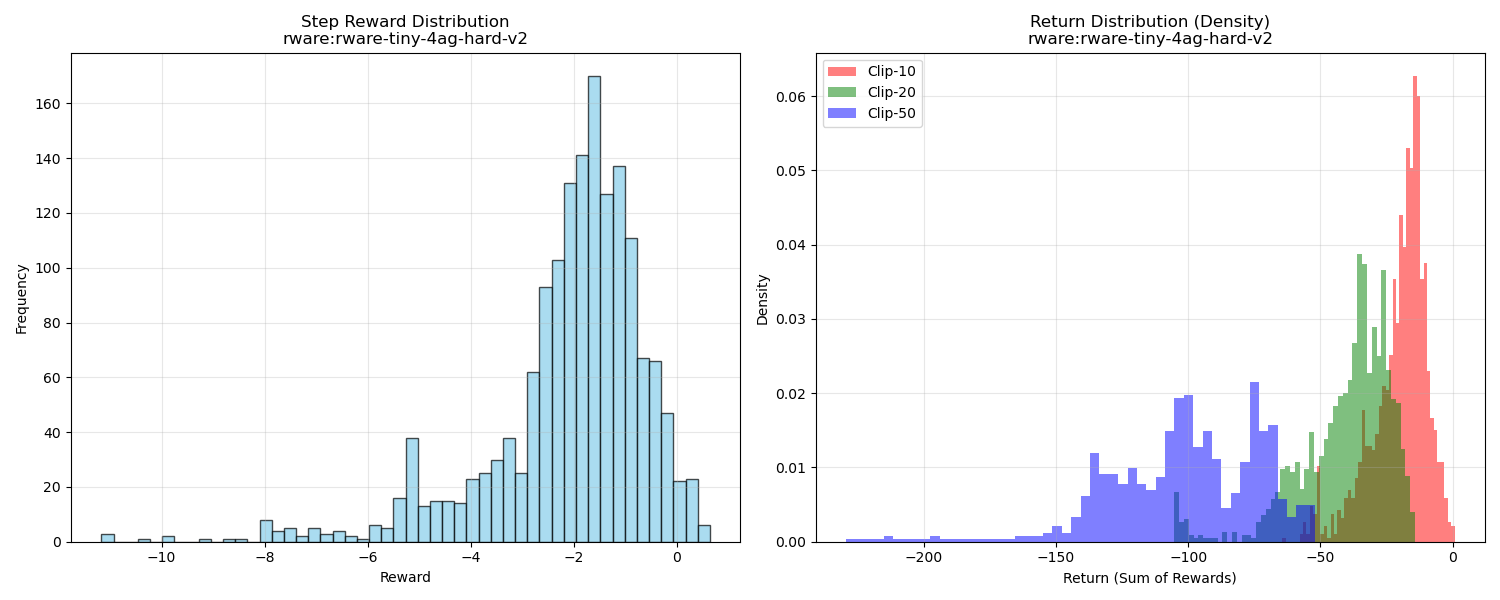
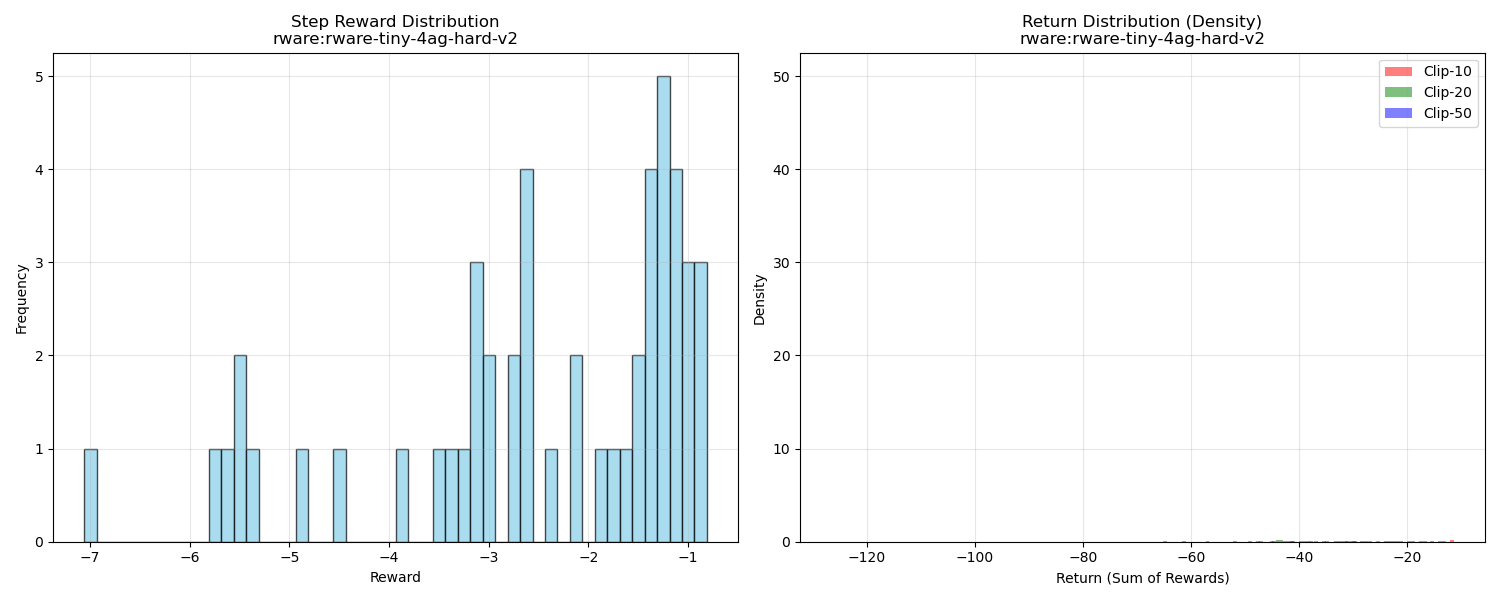
analyze folders of rewards

diff --git a/analyze_rewards.py b/analyze_rewards.py
@@ -337,7 +337,8 @@ def process_config(config_name, shards, args):
     fig, axes = plt.subplots(1, 2, figsize=(15, 6))
 
     # Plot 1: Step Rewards
-    axes[0].hist(flat_rewards, bins=50, color="skyblue", edgecolor="black", alpha=0.7)
+    flat_totals = [r["total"] for r in flat_rewards]
+    axes[0].hist(flat_totals, bins=50, color="skyblue", edgecolor="black", alpha=0.7)
     axes[0].set_title(f"Step Reward Distribution\n{config_name}")
     axes[0].set_xlabel("Reward")
     axes[0].set_ylabel("Frequency")
@@ -374,7 +375,14 @@ def main():
     parser = argparse.ArgumentParser(description="Analyze rewards in VLCM data")
     parser.add_argument(
         "input_path",
-        help="Path to a folder (raw trajectory) or directory containing tar shards",
+        nargs="?",
+        help="Path to a folder (raw trajectory) or directory containing tar shards. Defaults to 'data_scratch'.",
+    )
+    parser.add_argument(
+        "--data_dir",
+        type=str,
+        default=None,
+        help="Explicitly set the data directory (overrides input_path positionally)",
     )
     parser.add_argument(
         "--clip_lens",
@@ -389,14 +397,34 @@ def main():
 
     args = parser.parse_args()
 
-    input_path = Path(args.input_path)
+    # Determine base input path
+    raw_input = args.data_dir if args.data_dir else args.input_path
+    if not raw_input:
+        raw_input = "data_scratch"
+
+    input_path = Path(raw_input)
+
+    # Search for data_scratch if input_path doesn't exist locally
+    if not input_path.exists():
+        potential_paths = [
+            Path("data_scratch"),
+            Path("../VLCM_Data_Collection/RWARE/data_scratch"),
+            Path("VLCM_Data_Collection/RWARE/data_scratch"),
+        ]
+        for p in potential_paths:
+            if p.exists():
+                print(f"Path '{input_path}' not found, using discovered path: {p}")
+                input_path = p
+                break
 
     if not input_path.exists():
-        print(f"Path not found: {input_path}")
+        print(f"Error: Path not found: {raw_input}")
+        print("Please provide a valid path to a trajectory folder or data directory.")
         return
 
+    print(f"Analyzing data in: {input_path}")
+
     # Determine if input_path is a config itself or a container of configs
-    # Heuristic: Check for .tar files directly.
     tars_direct = sorted(list(input_path.glob("*.tar")))
 
     if tars_direct:
@@ -404,10 +432,12 @@ def main():
         config_name = input_path.name
         process_config(config_name, tars_direct, args)
     else:
-        # Check subdirectories
-        subdirs = [d for d in input_path.iterdir() if d.is_dir()]
+        # Check subdirectories for configurations
+        # A configuration is a directory that contains .tar files (directly or nested)
+        subdirs = sorted([d for d in input_path.iterdir() if d.is_dir()])
         configs_found = []
         for d in subdirs:
+            # Look for tars in this subdir (could be in date subfolders)
             tars = sorted(list(d.rglob("*.tar")))
             if tars:
                 configs_found.append((d.name, tars))
